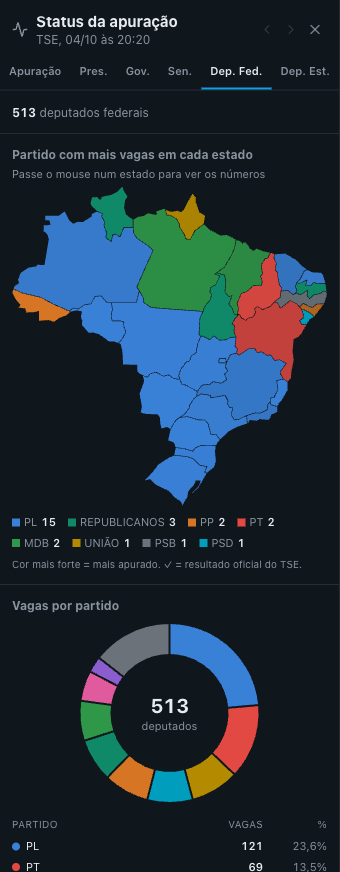
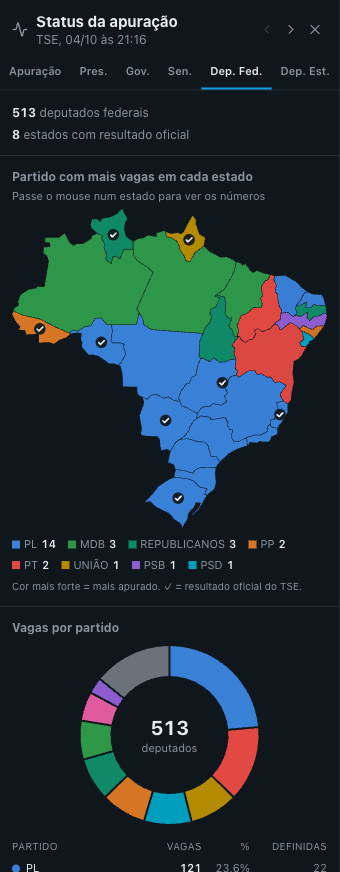
README com os selos, o sub judice, o 2º turno garantido e telas novas
Todas as telas refeitas com a apuração perto de 100%, mais duas novas: o cenário do sub judice no Governador do Rio e o selo de 2º turno no Presidente.
Corrige a concordância do resumo da coluna Status (1 tende ao 2º turno).

diff --git a/src/components/deck/StatusColumn.tsx b/src/components/deck/StatusColumn.tsx
@@ -358,22 +358,31 @@ function OfficeView({
   }
   const legend = [...leaders.values()].sort((a, b) => b.states - a.states);
 
+  const plural = (n: number, one: string, many: string) => [n, n === 1 ? one : many] as const;
   const summary =
     office === "Presidente"
       ? null
       : office === "Governador"
         ? [
-            [count(["eleito"]), count(["eleito"]) === 1 ? "eleito" : "eleitos"],
-            [count(["segundo-turno"]), "com 2º turno"],
-            [count(["tende-segundo-turno"]), "tendem ao 2º turno"],
-            [count(["tende-vencer", "lidera", "disputa", "parcial", "aguardando"]), "em disputa"],
+            plural(count(["eleito"]), "eleito", "eleitos"),
+            plural(count(["segundo-turno"]), "com 2º turno", "com 2º turno"),
+            plural(count(["tende-segundo-turno"]), "tende ao 2º turno", "tendem ao 2º turno"),
+            plural(
+              count(["tende-vencer", "lidera", "disputa", "parcial", "aguardando"]),
+              "em disputa",
+              "em disputa",
+            ),
           ]
         : [
             [
               inMap.reduce((n, [, s]) => n + s.decided.length, 0),
               `de ${inMap.length * 2} vagas definidas`,
-            ],
-            [count(["eleito"]), "estados com as duas vagas definidas"],
+            ] as const,
+            plural(
+              count(["eleito"]),
+              "estado com as duas vagas definidas",
+              "estados com as duas vagas definidas",
+            ),
           ];
 
   const nationalCall = national ? trendsFor(national.br, national.ufs).call.text : null;

diff --git a/README.md b/README.md
@@ -38,7 +38,7 @@ Fechou a aba e voltou depois, tá tudo lá, do jeito que você deixou.
 - O mapa pinta cada estado com a cor do partido de quem lidera. Quanto mais apurado, mais forte a cor.
 - Onde o resultado já tá definido aparece um ✓. Vale quando o TSE publica o eleito ou o 2º turno, e também quando a conta já fecha antes disso - quem tá na frente não tem mais como ser alcançado nem com todos os votos que faltam.
 - Em cima, o resumo: quantos governadores já foram eleitos, quantos estados tendem ao 2º turno, quantas das 54 vagas do Senado já estão definidas.
-- Embaixo, a lista estado por estado, com quem lidera, o percentual e a situação.
+- Embaixo, a lista estado por estado, com quem lidera, o percentual e a situação: eleito em verde, 2º turno em laranja.
 - Em Presidente não tem ✓ por estado, porque presidente se decide no país todo. No topo aparece a tendência nacional.
 
 Na aba **Senador** tem também uma pizza com as 54 vagas por partido - os dois mais votados de cada estado, como se a apuração acabasse agora, e quantas já estão definidas.
@@ -63,6 +63,7 @@ Em cada coluna tem uma aba por cargo: Presidente, Governador, Senador, Deputado 
 A coluna do Brasil só tem Presidente, porque é o único cargo votado no país todo.
 
 Pra cada candidato aparece a foto, o partido, o número, a porcentagem dos votos válidos e o total de votos.
+A porcentagem é calculada igual à do TSE, então o número aqui bate com o do app oficial até a segunda casa.
 A setinha verde ou vermelha mostra se ele subiu ou caiu nas últimas atualizações.
 A cor segue o partido, do jeito que todo mundo reconhece: PT vermelho, PL azul, Missão amarelo, NOVO laranja.
 Ela não muda quando alguém passa outro candidato.
@@ -71,7 +72,32 @@ Ela não muda quando alguém passa outro candidato.
 - **Busca:** dá pra procurar por nome, número ou partido, sem se preocupar com acento.
 - **Mostrar mais:** as listas de deputado começam nos 10 mais votados. Em São Paulo são mais de 1.300 candidatos a deputado estadual, então dá pra ir abrindo de 50 em 50.
 
+Do lado da barrinha aparecem os selos:
+
+- **eleito**, em verde, quando o candidato já ganhou.
+- **2º turno**, em laranja, quando ele já tá garantido no 2º turno.
+- **sub judice**, quando a candidatura ainda tá sendo julgada (mais sobre isso abaixo).
+
+Quando o selo vem da conta e não do TSE, passa o mouse nele pra ver o porquê.
+
 <img src="docs/screenshots/deputados.png" alt="Lista de deputados estaduais de São Paulo com fotos e busca" width="340">
+
+### Candidato sub judice
+
+Às vezes a Justiça Eleitoral ainda não decidiu se a candidatura de alguém vale.
+Enquanto isso, o candidato aparece na urna, recebe voto, e o TSE conta esses votos no percentual de todo mundo.
+Se a candidatura for barrada, os votos dele viram nulos e saem da conta - e aí o percentual dos outros sobe.
+
+Toda disputa com candidato sub judice tem uma linha em cima do placar dizendo quem é.
+Clicando no nome aparece a explicação.
+O botão **se anulado** mostra como ficaria se a candidatura caísse: os percentuais sem esses votos e o que muda no resultado.
+
+O caso que mais pesa em 2026 é o Governador do Rio.
+Contando os votos do Garotinho, que tá sub judice, o Douglas Ruas fica abaixo de 50% e vai pro 2º turno.
+Sem eles, passa de 50% e ganha no 1º turno.
+Pra deputado as vagas não mudam, porque a conta do quociente já deixa esses votos de fora.
+
+<img src="docs/screenshots/sub-judice.png" alt="Governador do Rio com o Garotinho sub judice e o cenário com os votos dele anulados" width="340">
 
 ### A página do candidato
 
@@ -102,7 +128,15 @@ No Senado é igual: o candidato tá eleito se continua na frente do primeiro que
 Isso só vale onde a eleição acontece de verdade - Presidente no Brasil, Governador e Senador no estado.
 Ganhar o Presidente num estado não elege ninguém.
 
-<img src="docs/screenshots/eleito.png" alt="Governador de Mato Grosso do Sul já matematicamente eleito" width="340">
+O 2º turno também dá pra cravar antes.
+Ele tá garantido quando ninguém consegue mais passar de 50%, nem levando todos os votos que faltam, e quando os dois primeiros não podem mais ser alcançados por quem tá atrás.
+Aí os dois ganham o selo de 2º turno e a tendência diz que o 2º turno já tá definido.
+Se tem candidato sub judice no meio, a conta testa os dois cenários e só crava quando o resultado é o mesmo nos dois.
+
+<p>
+<img src="docs/screenshots/eleito.png" alt="Governador de Mato Grosso do Sul já eleito" width="340">
+<img src="docs/screenshots/segundo-turno.png" alt="Flavio Bolsonaro e Lula com o selo de 2º turno" width="340">
+</p>
 
 ### Quociente eleitoral
 
@@ -165,7 +199,7 @@ O backend é Supabase: Postgres pros resultados e o histórico, Edge Functions p
 
 - `supabase/functions/poll-tse` roda a cada 5 segundos pelo `pg_cron`. Ele usa requisições condicionais ao CDN do TSE, divide o trabalho entre workers e descarta respostas de servidores do CDN que ainda tão com uma versão antiga do arquivo.
 - `supabase/functions/watch` entrega o estado atual e o histórico quando alguém abre uma coluna, e marca aquela disputa como acompanhada.
-- Cada lugar tem um canal no Realtime (`abr:<lugar>`), e o Presidente de todos os estados tem um canal só (`pres-uf`).
+- Cada lugar tem um canal no Realtime (`abr:<lugar>`). Pra coluna Status, cada cargo tem um canal só com todos os estados: `pres-uf`, `gov-uf`, `sen-uf`, `fed-uf` e `est-uf`.
 - `supabase/functions/_shared/tse.ts` é TypeScript puro, usado pelas functions, pelo app e pelos testes.
 
 ```sh
